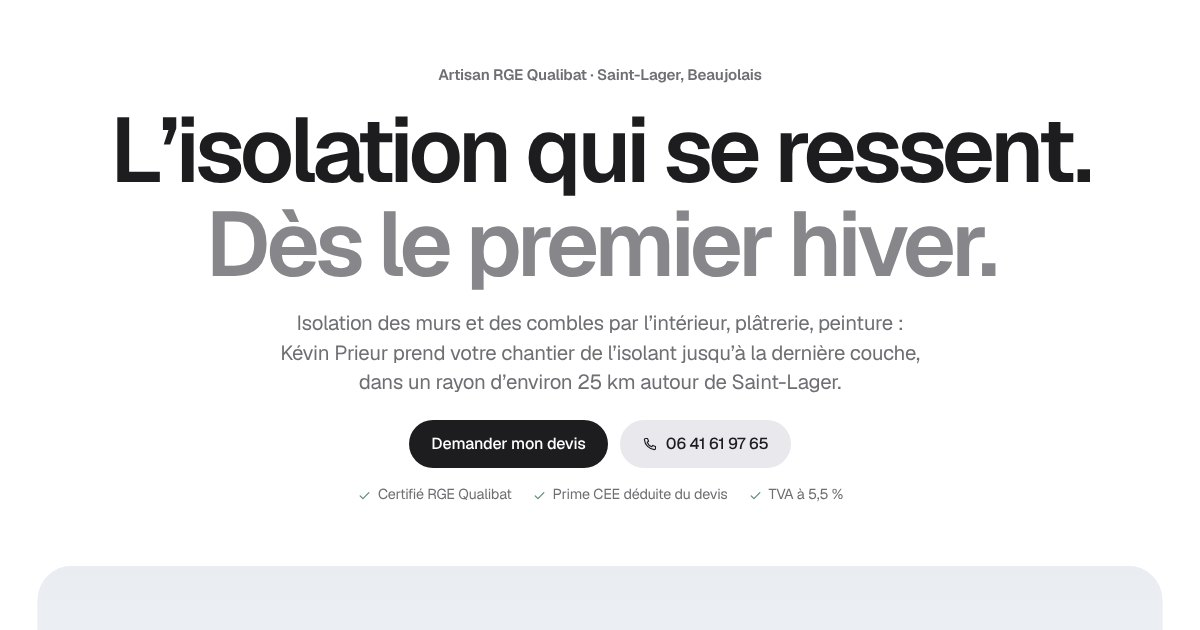
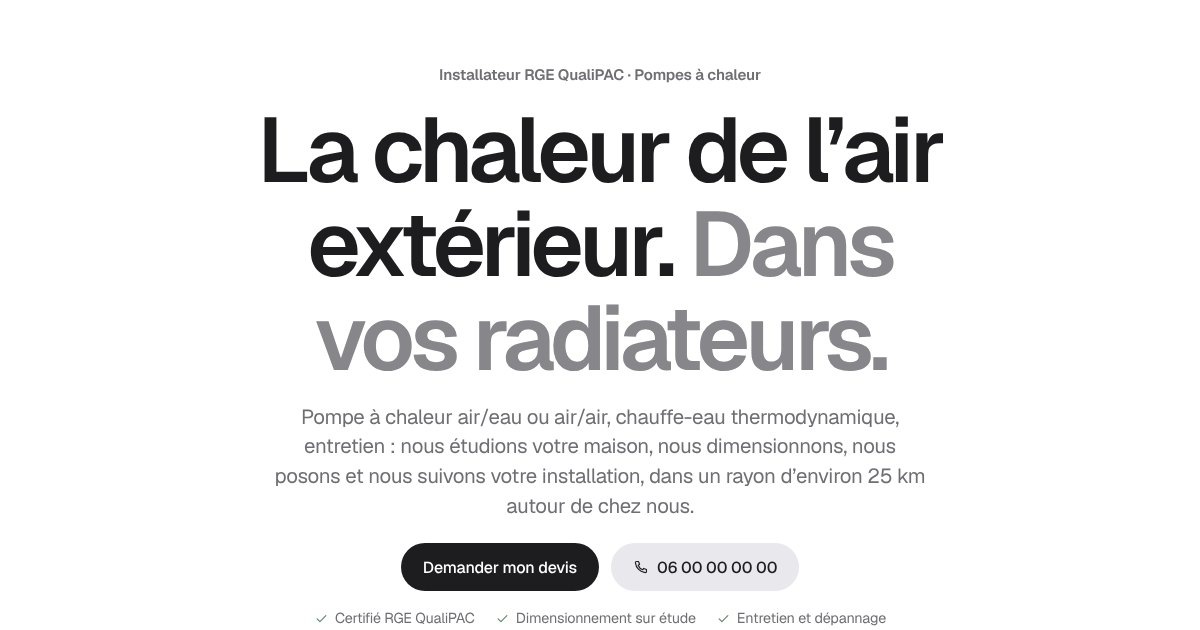
Démos neutres : finitions (images de partage, commentaires)
Claude-Session: https://claude.ai/code/session_0199ueMSaoPJ2A682MXr9jzG

diff --git a/demos/isolation/assets/js/main.js b/demos/isolation/assets/js/main.js
@@ -1,5 +1,5 @@
 /* ==========================================================================
-   KP Prestations — interactions & animations
+   Interactions et animations
    GSAP 3 + ScrollTrigger + SplitText, Lenis (défilement fluide).
    Tout reste lisible et utilisable sans animation (prefers-reduced-motion).
    ========================================================================== */
